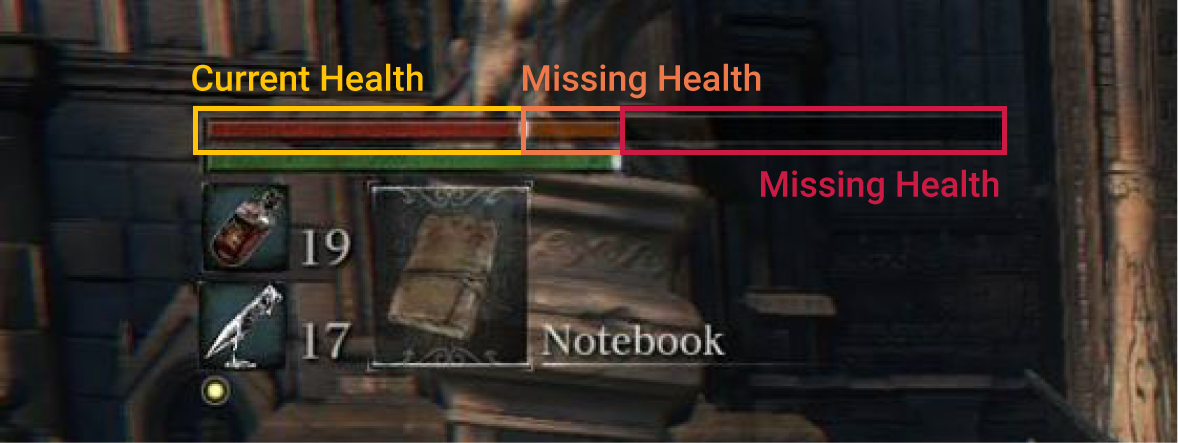
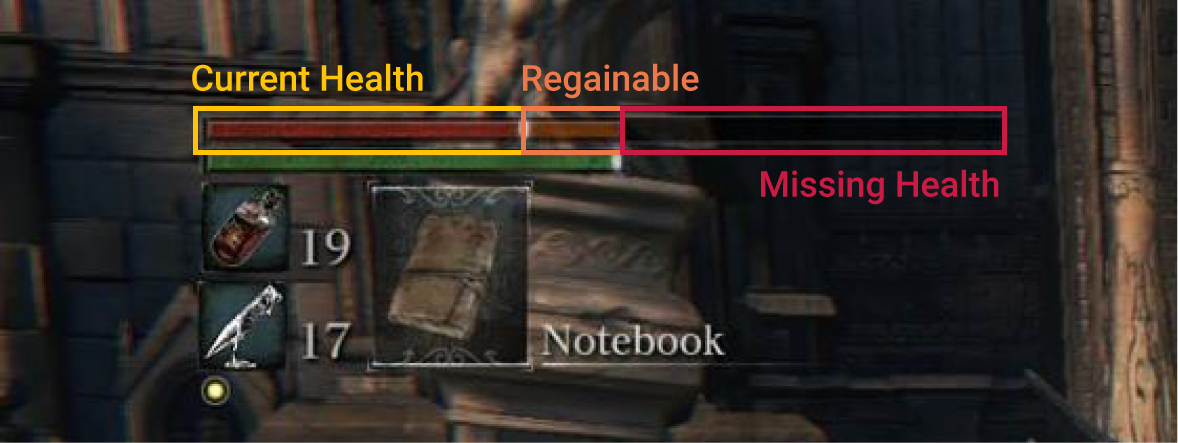
2.13 Minor Update
Added content mostly for game analysis.

Changed region(s): [[0.4278, 0.1467, 0.6723, 0.2348]]

diff --git a/analysis/mission-mmorpg.html b/analysis/mission-mmorpg.html
@@ -74,7 +74,7 @@
         The system grants designers brand new ways to think about how living
         things in the game interact with each other, and how to implement
         unforgettable experience using it.
-        <br /><span class="element-title">photography system</span><br />
+        <br /><span class="element-title">camera system</span><br />
         Photography System is not a rare system in MMO games, but the one in
         Revelation has some cool features such as capturing ghost creatures and
         recognizing NPC. This opens opportunity to implement it into missions.
@@ -110,40 +110,37 @@
         Production
       </div>
       <div class="main-introduction">
-        During the 2 month I analysed many existing gameplay and created many
-        new ones.
+        During the internship I analysed existing gameplay and created many new
+        ones.
       </div>
       <div class="main-design-title">
         <hr />
         ideation
       </div>
       <div class="main-design-description">
-        <span class="element-title">easy story with ups and downs</span><br />
-        It will be a 4min experience including interaction time so do not make
-        the story too complicated. We go for a classroom romance since everyone
-        probably has some experience on that. And we think adding a little
-        surprise in story would help with the emotional flow.
-        <br /><span class="element-title">meaningful interactions</span><br />
-        We learn from What Remains of Edith Finch combining interactions with
-        story. We leave important moments waiting to be accomplished by player
-        interaction so they feel being in the situation rather than watching a
-        story sequence.
+        <span class="element-title">problems of former ones</span><br />
+        Before I joined, the team already had some prototype design for
+        Adventure System. After playing all of them, I did sense the
+        disconnection between the quests and the world. Here is my analysis.
+        <br /><span class="element-title">improvement direction</span><br />
+        I managed to figure out what is the right track of fixing the problem
+        and creating new side missions. For the old ones, I try to find ways to
+        put them in a larger context (to fit the backstory, to combine more
+        systems, to be more challening and rewarding) so the core fun of
+        Adventure System is well reflected in those missions. For the new ones,
+        I stick to the design principles concluded in Methodology session.
       </div>
       <div class="main-design-title">
         <hr />
         mission examples
       </div>
       <div class="main-design-description">
-        <span class="element-title">easy story with ups and downs</span><br />
-        It will be a 4min experience including interaction time so do not make
-        the story too complicated. We go for a classroom romance since everyone
-        probably has some experience on that. And we think adding a little
-        surprise in story would help with the emotional flow.
-        <br /><span class="element-title">meaningful interactions</span><br />
-        We learn from What Remains of Edith Finch combining interactions with
-        story. We leave important moments waiting to be accomplished by player
-        interaction so they feel being in the situation rather than watching a
-        story sequence.
+        <span class="element-title">crab wars</span><br />
+        Side mission: crab wars lets players transform into a crab and go
+        through a bizarre experience in fighting with and against crabs.
+        <br /><span class="element-title">ghost lover</span><br />
+        Side mission: ghost lover tells a story between a woman and her ghost
+        lover using the feature of Camera System.
       </div>
       <div class="main-design-title">
         <hr />

diff --git a/analysis/bloodborne.html b/analysis/bloodborne.html
@@ -138,18 +138,22 @@
         Unlike Soul Series, in Bloodborne there is only a type of wood shield
         available for blocking, so in most cases people do parry and dodge to
         avoid taking damage, which is more time-sensitive and feels more
-        intense. Pistol parry, an effective way to make enemies stunned and
-        leave space for visceral attack, needs to be done very precisely at the
-        moment enemies attack.
+        intense. Pistol parry, a very effective way to make enemies stunned and
+        leave space for high-damage visceral attacking, needs to be done very
+        precisely at the moment enemies attack, or the enemy will use their
+        attacks to punish the player harshly.
         <div class="element-image">
           <img src="/media/analysis/bloodborne/health.png" alt="Health bar" />
         </div>
-        To compliment the faster-paced combat and keep the action fast and
-        furious, players can regain some of their lost health if they
-        successfully performs counter-attacks. All the designs in combat system
-        are in wonderful accordance, and highlight the theme of Bloodborne - the
-        lust for blood. We encounter powerful enemies, get killed by them, kill
-        them back, and finally the hunter outfit is stained with much blood.
+        Another very interesting setting is the Rally mechanism. It is a
+        risk/reward combat mechanic that after being hit by an enemy, players
+        may jump back in the action and attack the opponent to quickly refill
+        any lost health before the health bar actually depletes the amount. The
+        tricky thing is that any follow-up attacks you take will negate the
+        chance to regain the former losing health. So timing is crucial to the
+        execution of this mechanic. This setting really challenges the players
+        as attacking back boldly but also avoiding getting another hit is a hard
+        lesson for everyone.
         <div class="element-image-flex">
           <img
             src="/media/analysis/bloodborne/beast-blood-pellet.jpg"
@@ -157,13 +161,17 @@
           />
           <img src="/media/analysis/bloodborne/beasthood.PNG" alt="Beasthood" />
         </div>
-        Another item used to increase the intensity of fighting is Beast Blood
-        Pellet which when used boosts player's beast status. Beast status
-        increases physical damage and damage taken as well, in order to keep the
-        damage boost you have to continue attacking so the meter doesn't fall.
-        Due to this design, attacking in beasthood really has a feeling of
-        someone slowly turning into a blood-thirsty beast.
-        <br /><span class="element-title">insight</span><br />
+        There is an item especially designed to increase the intensity of
+        fighting: Beast Blood Pellet, which when used boosts player's beast
+        status. Beast status increases physical damage and damage taken as well,
+        in order to keep the damage boost you have to continue attacking so the
+        meter doesn't fall. Due to this design, attacking in beasthood really
+        has a feeling of someone slowly turning into a blood-thirsty beast.
+        <br />All the designs in combat system share a same clear goal: to
+        promote a much more aggressive style for combat where the meaning of
+        Bloodborne is revealed: We encounter powerful enemies, get killed by
+        them, kill them back, and finally the hunter outwears are stained with
+        blood. <br /><span class="element-title">insight</span><br />
         <i
           >"The Insight stat represents the depth of inhuman knowledge. Needed
           to ring special bell, but induces frenzy."</i

diff --git a/games/stadia-project.html b/games/stadia-project.html
@@ -38,18 +38,19 @@
         In March 2019 Google Stadia announced a platform exclusive feature
         called State Share. This technology leverages cloud game hosting to
         enable players to share a complete game state (not just a specified save
-        state) instantly to their friends or to the public. This project
-        explores the possibility of this technology specifically for the
-        discovery of new kinds of game design patterns and new game genres that
-        are inherently viral and require elaborate player cooperation across
-        massive scale audiences.
+        state) instantly to their friends or to the public. This project I am
+        working on explores the possibility of this technology specifically for
+        the discovery of new kinds of game design patterns and new game genres
+        that are inherently viral and require elaborate player cooperation
+        across massive scale audiences.
         <br /><br />I work in a team of five at Entertainment Technology Center
-        Silicon Valley. The project is still under development and more content
-        will be added on a quite regular basis. <br /><br />The project website,
-        which is hosted by the ETC, could be found
+        Silicon Valley. The semester-long project is under well scheduled
+        development and more content will be added on a quite regular basis.
+        <br /><br />The project website, which is hosted by the ETC, could be
+        found
         <span class="important"
-          ><a href="https://www.etc.cmu.edu/projects/ditto/">HERE.</a></span
-        >The website is planned to post new blogs and findings every week.
+          ><a href="https://www.etc.cmu.edu/projects/ditto/">HERE. </a></span
+        >The website is a showcase of our new blogs and findings every week.
       </div>
       <div class="top-information">
         <span style="color:var(--ro);">time</span> spring 2020 <br />
@@ -82,12 +83,12 @@
         Before thinking how we build games based on State Share, we agreed that
         it is very important to determine the advantage of Google Stadia and
         especially State Share that we are working on. After reading the posts
-        on developer website
+        on the
         <span class="important">
           <a
             onclick="transitionToPage('https:/stadia.dev/intl/en_us/blog/','var(--shironeri)')"
-            >HERE,</a
-          >
+            >developer website,
+          </a>
         </span>
         we concluded some merits that differentiate State Share with traditional
         online or local multiplayer network.<br />

diff --git a/index.html b/index.html
@@ -26,36 +26,37 @@
       <div id="introduction" class="section">
         <div class="introduction-title">
           I am
-          <p class="introduction-title-entry" style="font-size: 10vmin;">
+          <span class="introduction-title-entry" style="font-size: 10vmin;">
             <a onclick="transitionToPage('about.html','var(--tohoh)')"
               >Liangzheng Luo,
             </a>
-          </p>
+          </span>
           originally from a beautiful city - Hangzhou, China, - now studying at
           Carnegie Mellon University to further my skills in
-          <p class="introduction-title-entry"><a> game design.</a></p>
+          <span class="introduction-title-entry"><a> game design.</a></span>
           I like to write down thoughts as
-          <p class="introduction-title-entry">
+          <span class="introduction-title-entry">
             <a> game analysis, </a>
-          </p>
+          </span>
           by which I believe I could have a better understanding of games. With
           a background in Industrial Design, I also consider myself half an
-          <p class="introduction-title-entry"><a> art </a></p>
+          <span class="introduction-title-entry"><a> art </a></span>
           person.
         </div>
         <div class="introduction-title">
           Feel free to view my
-          <p class="introduction-title-contact">
+          <span class="introduction-title-entry">
             <a href="/resume.pdf" target="_blank"> resume </a>
-          </p>
+          </span>
           and
-          <p class="introduction-title-contact">
+          <span class="introduction-title-entry">
             <a href="mailto: liangzhl@andrew.cmu.edu"> contact </a>
-          </p>
+          </span>
           me.
         </div>
         <div class="scroll">➙</div>
       </div>
+
       <div id="games" class="section">
         <div class="section-title">Game Design</div>
         <div

diff --git a/about.html b/about.html
@@ -26,18 +26,19 @@
         Liangzheng Luo
       </div>
       <div class="main-introduction">
-        A game enthusiast, Liangzheng is currently studying at Entertainment
-        Technology Center Silicon Valley for Masters.<br />
-        For him, playing games and thinking over them is an essential part of
+        A game enthusiast, I am currently studying at Entertainment Technology
+        Center Silicon Valley for my Masters'.<br />
+        For me, playing games and thinking about them is an essential part of
         life.<br />
         Of course, it would be even better with films and music.<br /><br />
-        His most admired game so far is <span class="tohoh">Bloodborne.</span
+        My most admired game so far is <span class="tohoh">Bloodborne.</span
         ><br />
-        His favorite film so far is
+        My favorite film so far is
         <span class="tohoh">2001: A Space Odyssey</span> by Stanley Kubrick.<br />
-        His favorite band so far is
+        My favorite band so far is
         <span class="tohoh">the London Suede.</span><br />
-        His favorite cocktail so far is <span class="tohoh">Margarita.</span>
+        My favorite cocktail type so far is
+        <span class="tohoh">Margarita.</span>
       </div>
     </div>
 

diff --git a/css/index.css b/css/index.css
@@ -36,6 +36,7 @@ body.fade-out {
 
 .introduction-title {
   white-space: normal;
+  letter-spacing: 1px;
   padding-top: 6vh;
   font-weight: 400;
   font-size: 6vmin;
@@ -47,7 +48,7 @@ body.fade-out {
 }
 
 .introduction-title-entry {
-  display: inline;
+  letter-spacing: 1px;
   font-weight: 600;
   color: var(--shironeri);
 }
@@ -83,13 +84,8 @@ body.fade-out {
     0 0 24px rgb(202, 81, 110), 0 0 28px rgb(201, 93, 118);
 }
 
-.introduction-title-contact {
-  display: inline;
-  font-weight: 600;
-  color: var(--shironeri);
-}
-
 .section-title {
+  letter-spacing: 5px;
   font-weight: 600;
   font-size: 12vmin;
   font-variant: small-caps;
@@ -125,6 +121,7 @@ body.fade-out {
   display: inline-block;
   vertical-align: top;
   margin: 1vh 2vw 1vh 0;
+  letter-spacing: 1px;
   font-size: 3.5vw;
   font-weight: 600;
   height: 65vh;
